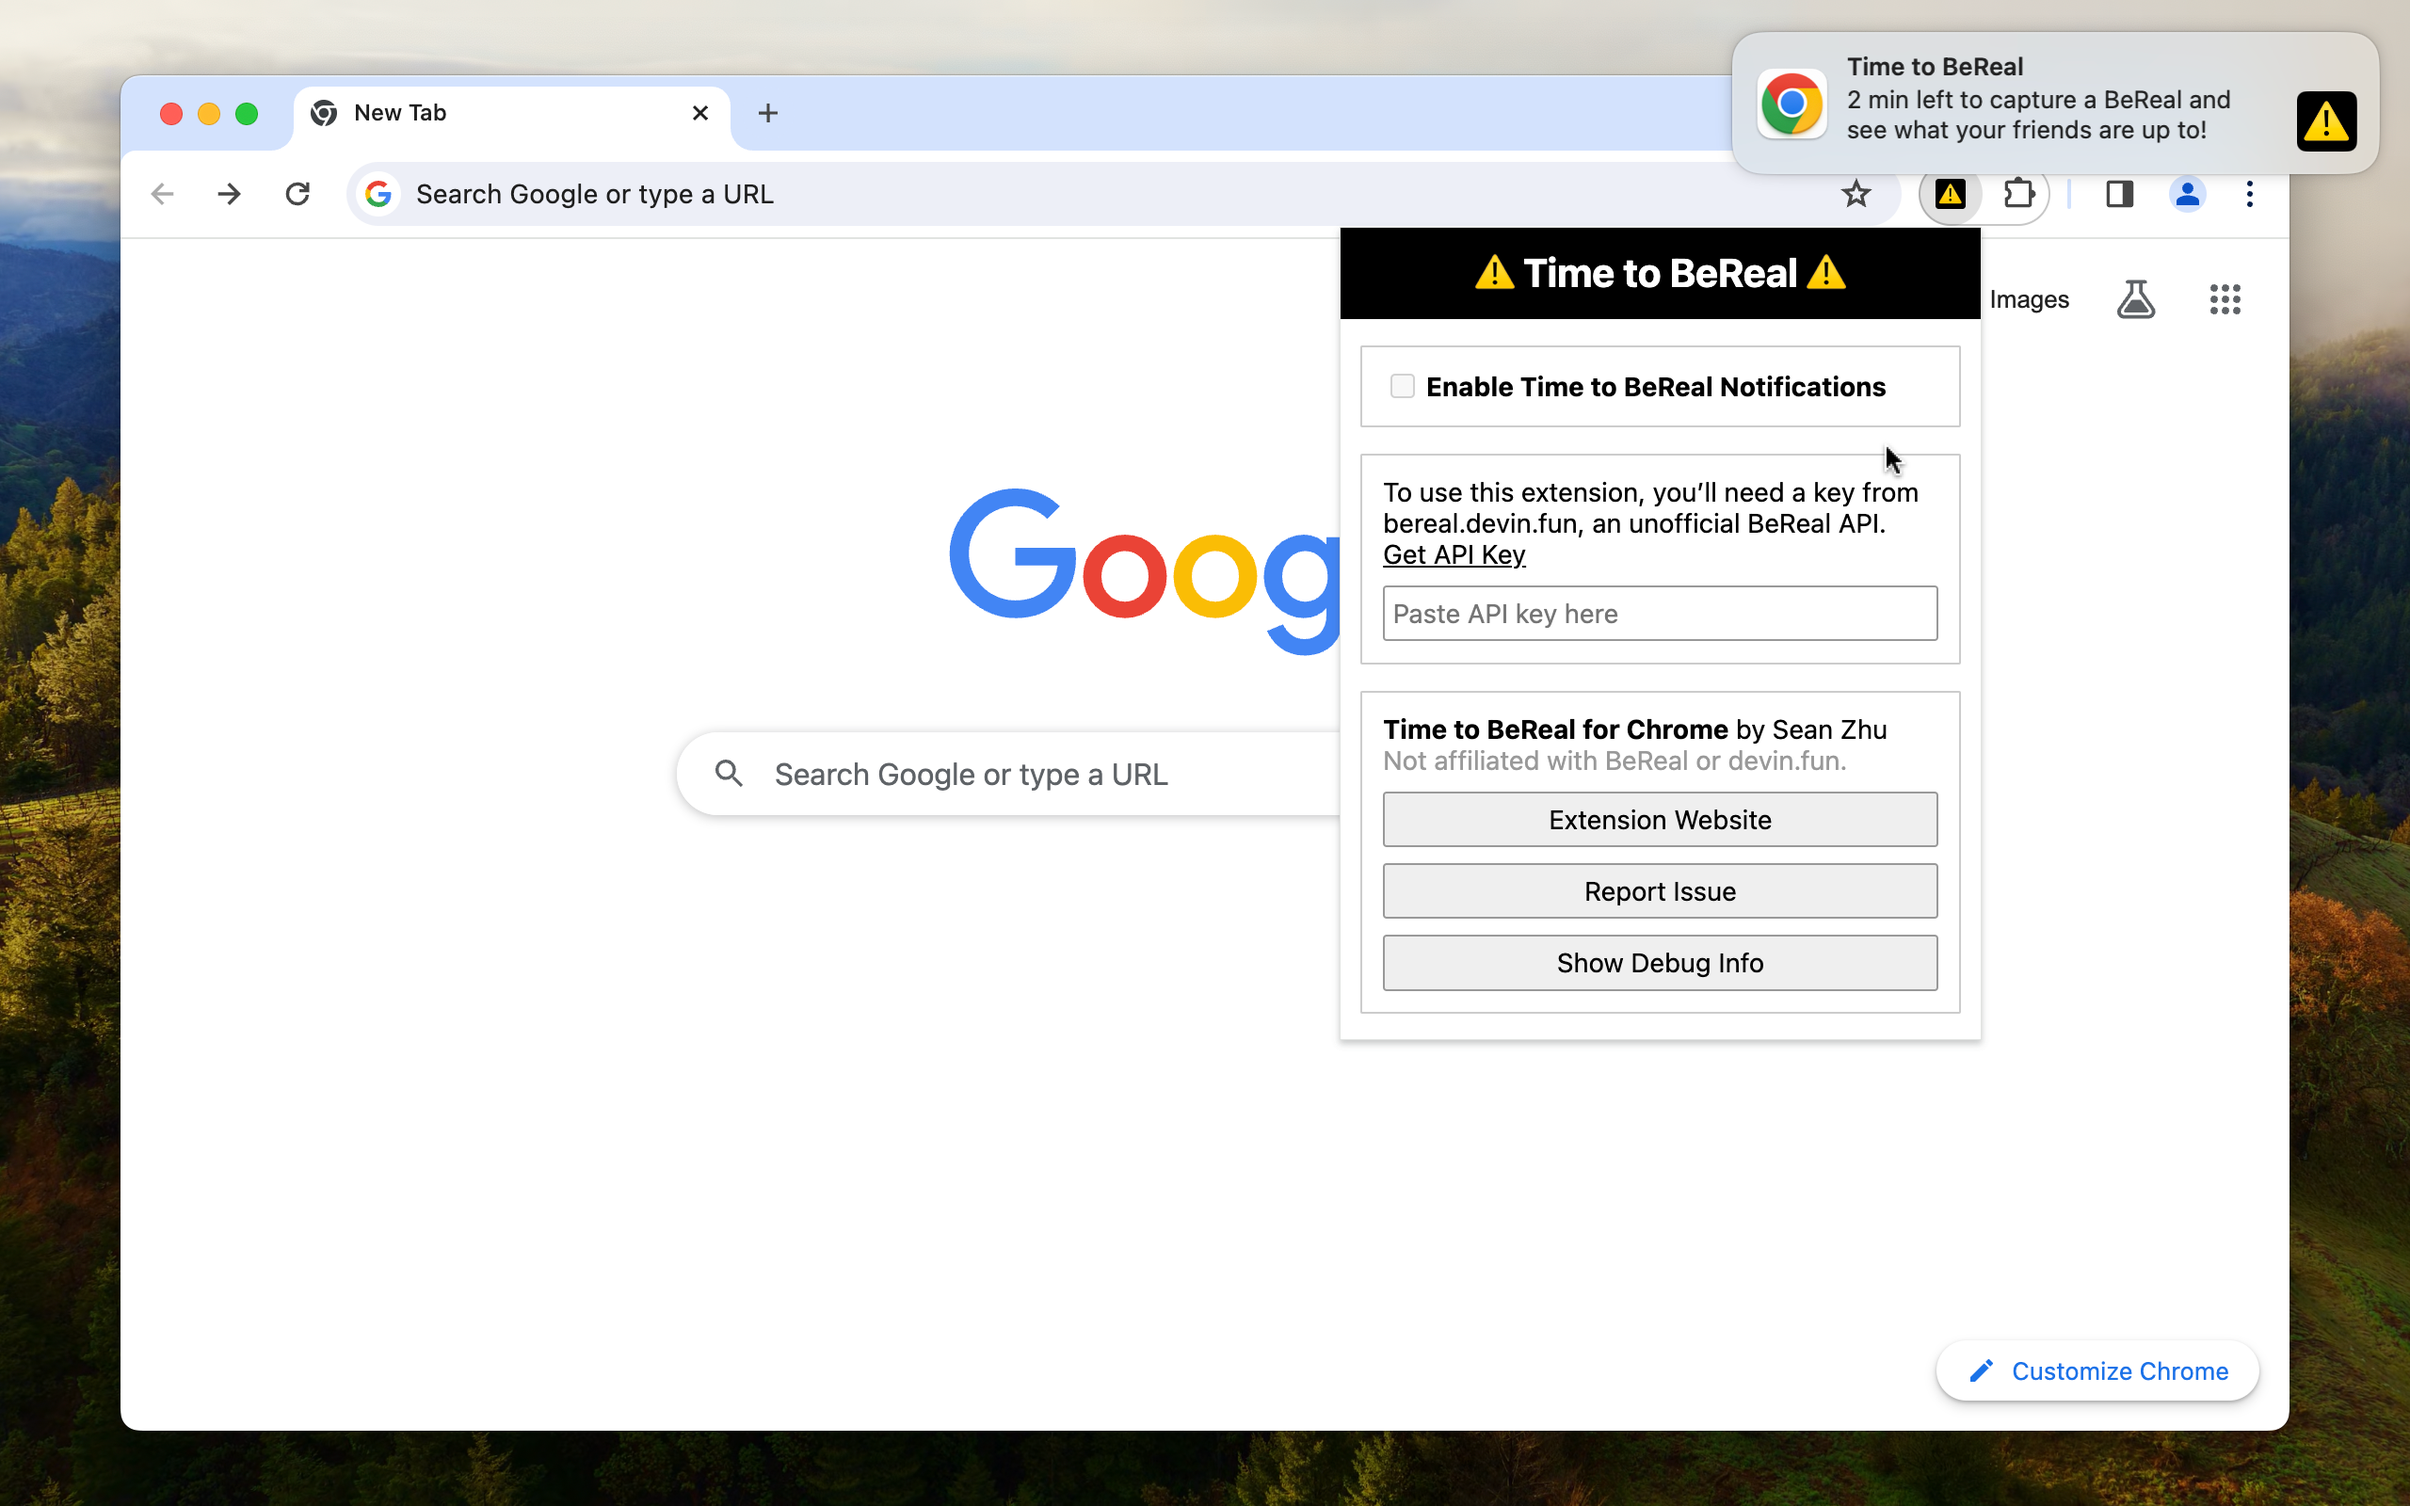
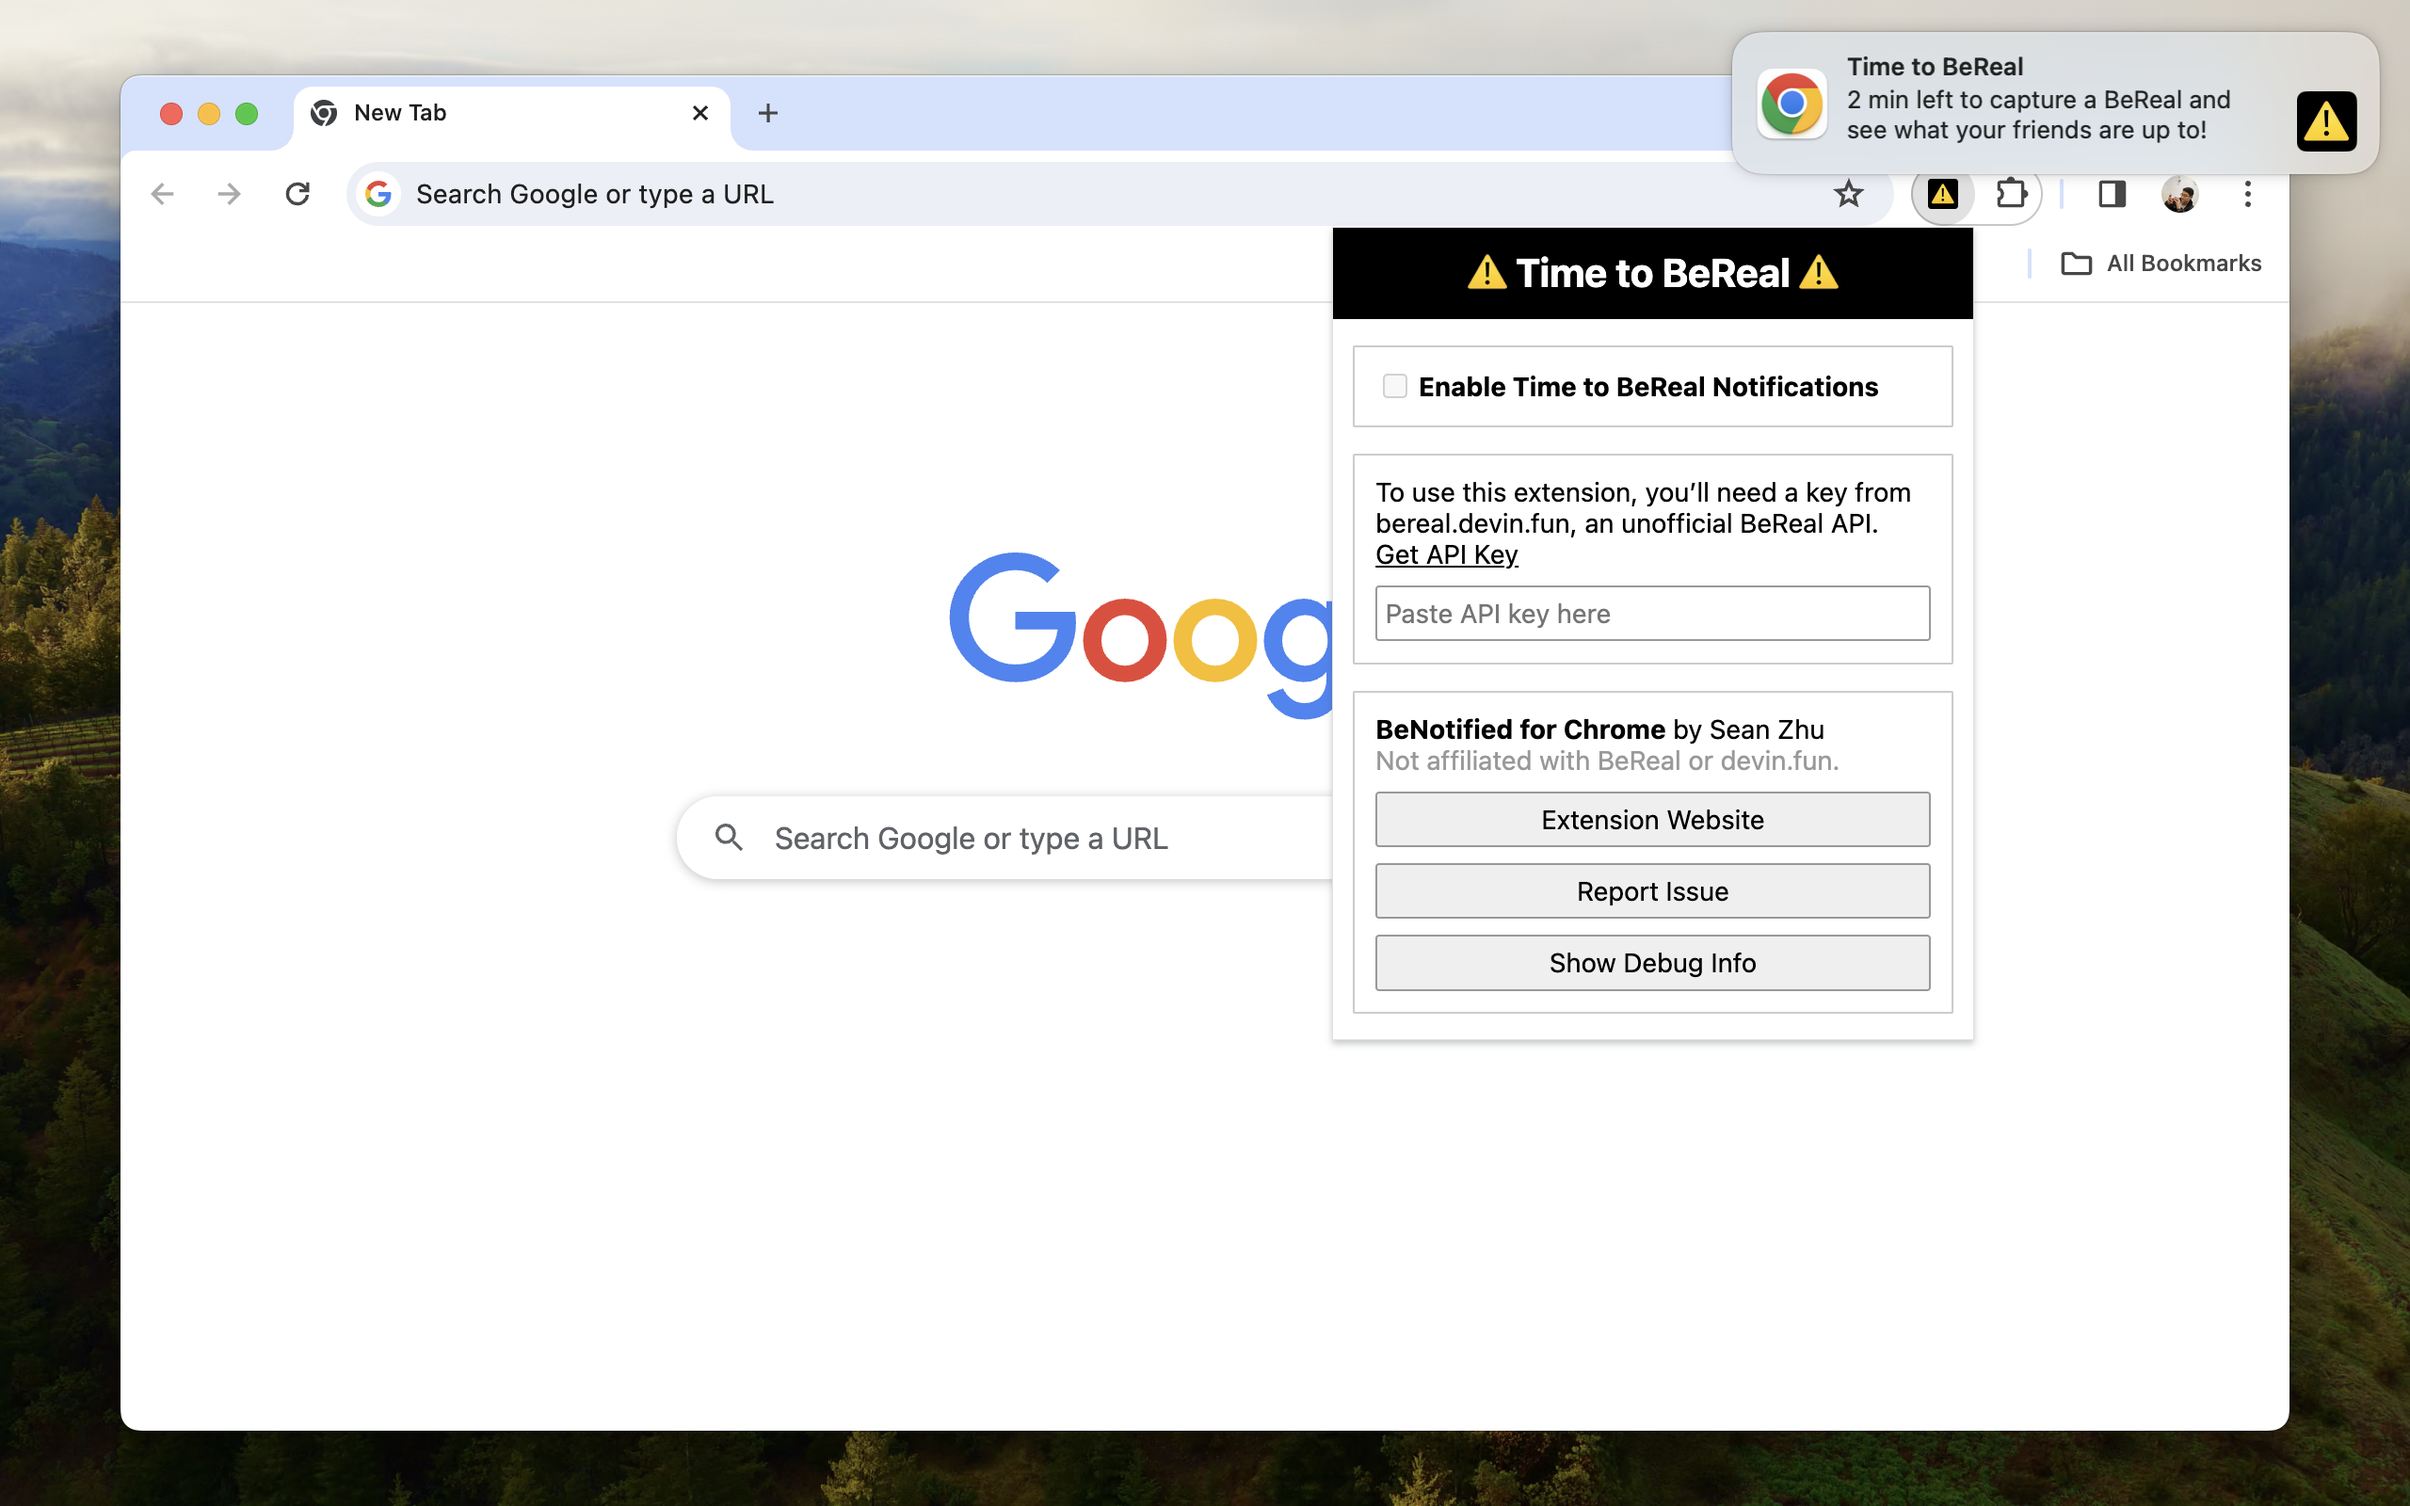
Rebrand

diff --git a/src/popup.js b/src/popup.js
@@ -165,7 +165,7 @@ function PopupUi() {
 
         El(...Fieldset, [
           El("div", {}, [
-            El("b", {}, ["Time to BeReal for Chrome"]),
+            El("b", {}, ["BeNotified for Chrome"]),
             [" by Sean Zhu"],
             El("br"),
             El("span", { style: { color: "#999" } }, [
@@ -179,7 +179,7 @@ function PopupUi() {
               style: InputStyle,
               async onClick() {
                 await chrome.tabs.create({
-                  url: "https://github.com/szhu/time-to-bereal-chrome",
+                  url: "https://github.com/szhu/BeNotified",
                 });
               },
             },
@@ -192,7 +192,7 @@ function PopupUi() {
               style: InputStyle,
               async onClick() {
                 await chrome.tabs.create({
-                  url: "https://github.com/szhu/time-to-bereal-chrome/issues",
+                  url: "https://github.com/szhu/BeNotified/issues",
                 });
               },
             },

diff --git a/README.md b/README.md
@@ -1,8 +1,8 @@
-# Time to BeReal for Chrome
+# BeNotified
 
 _Desktop notifications for when it’s Time to BeReal!_
 
-Keeping your phone next to you when you’re working can be distracting! If you want to leave your phone across the room or on airplane mode but still want to know when it’s Time to BeReal, this (unofficial) Chrome extension can help.
+Keeping your phone next to you when you’re working can be distracting! If you’re a [BeReal](https://bereal.com/) user and want to leave your phone across the room or on airplane mode but still want to know when it’s ⚠ Time to BeReal ⚠, this (unofficial) Chrome extension can help.
 
 ![screenshot](docs/screenshot-v1.0.png)
 
@@ -43,4 +43,4 @@ This extension is currently hardcoded to use the Americas BeReal time zone, but 
 
 [File an issue here.][issues]
 
-[issues]: https://github.com/szhu/time-to-bereal-chrome/issues
+[issues]: https://github.com/szhu/BeNotified/issues
